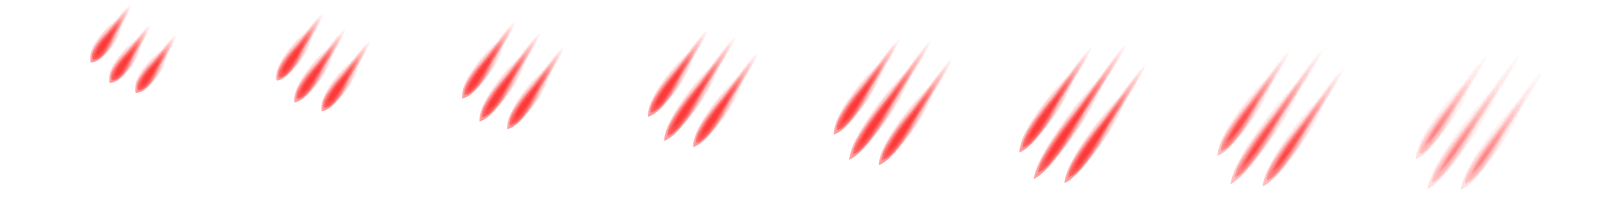
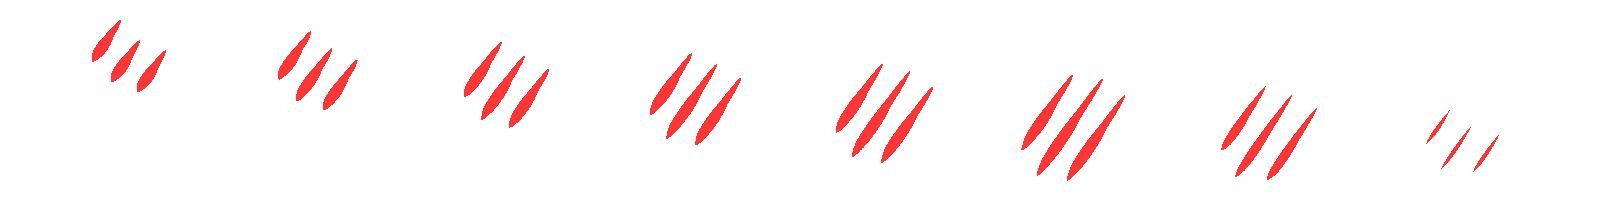
update

diff --git a/高松チーム/Gameproject/GameProject/Boss.cpp b/高松チーム/Gameproject/GameProject/Boss.cpp
@@ -55,7 +55,6 @@ BossHead::BossHead(const CVector2D &player_pos, const int state) :EnemyBase(eBos
 
 BossHead::~BossHead()
 {
-	TaskManager::GetInstance()->AddTask(new BossManager());
 }
 
 void BossHead::Idle()
@@ -220,7 +219,6 @@ BossHand::BossHand(const CVector2D &player_pos, const int state) :EnemyBase(eBos
 
 BossHand::~BossHand()
 {
-	//BossManager::m_state = eIdle;
 }
 
 void BossHand::Idle()
@@ -259,7 +257,7 @@ void BossHand::HandAttack()
 {
 	m_cnt++;
 	if (m_cnt <= 120 && m_cnt > 0) {
-		m_ang -= DtoR(1.5);
+		m_ang -= DtoR(2);
 		TaskManager::GetInstance()->AddTask(new BossSlashEffect(m_pos));
 		
 	}
@@ -383,7 +381,6 @@ BossTail::BossTail(const CVector2D & player_pos, const int state):EnemyBase(eBos
 
 BossTail::~BossTail()
 {
-	TaskManager::GetInstance()->AddTask(new BossManager());
 }
 
 void BossTail::Update()

diff --git a/高松チーム/Gameproject/GameProject/Game/Character/Anim/AnimBoss.cpp b/高松チーム/Gameproject/GameProject/Game/Character/Anim/AnimBoss.cpp
@@ -119,14 +119,14 @@ TexAnimData BossLazerEffectAnimData[] = {
 };
 
 static TexAnim BossSlashEffect[] = {
-	{ 0,2 },
-{ 1,2 },
-{ 2,2 },
-{ 3,2 },
-{ 4,2 },
-{ 5,2 },
-{ 6,2 },
-{ 7,2 },
+	{ 0,1 },
+{ 1,1 },
+{ 2,1 },
+{ 3,1 },
+{ 4,1 },
+{ 5,1 },
+{ 6,1 },
+{ 7,1 },
 };
 
 TexAnimData BossSlashEffectAnimData[] = {
